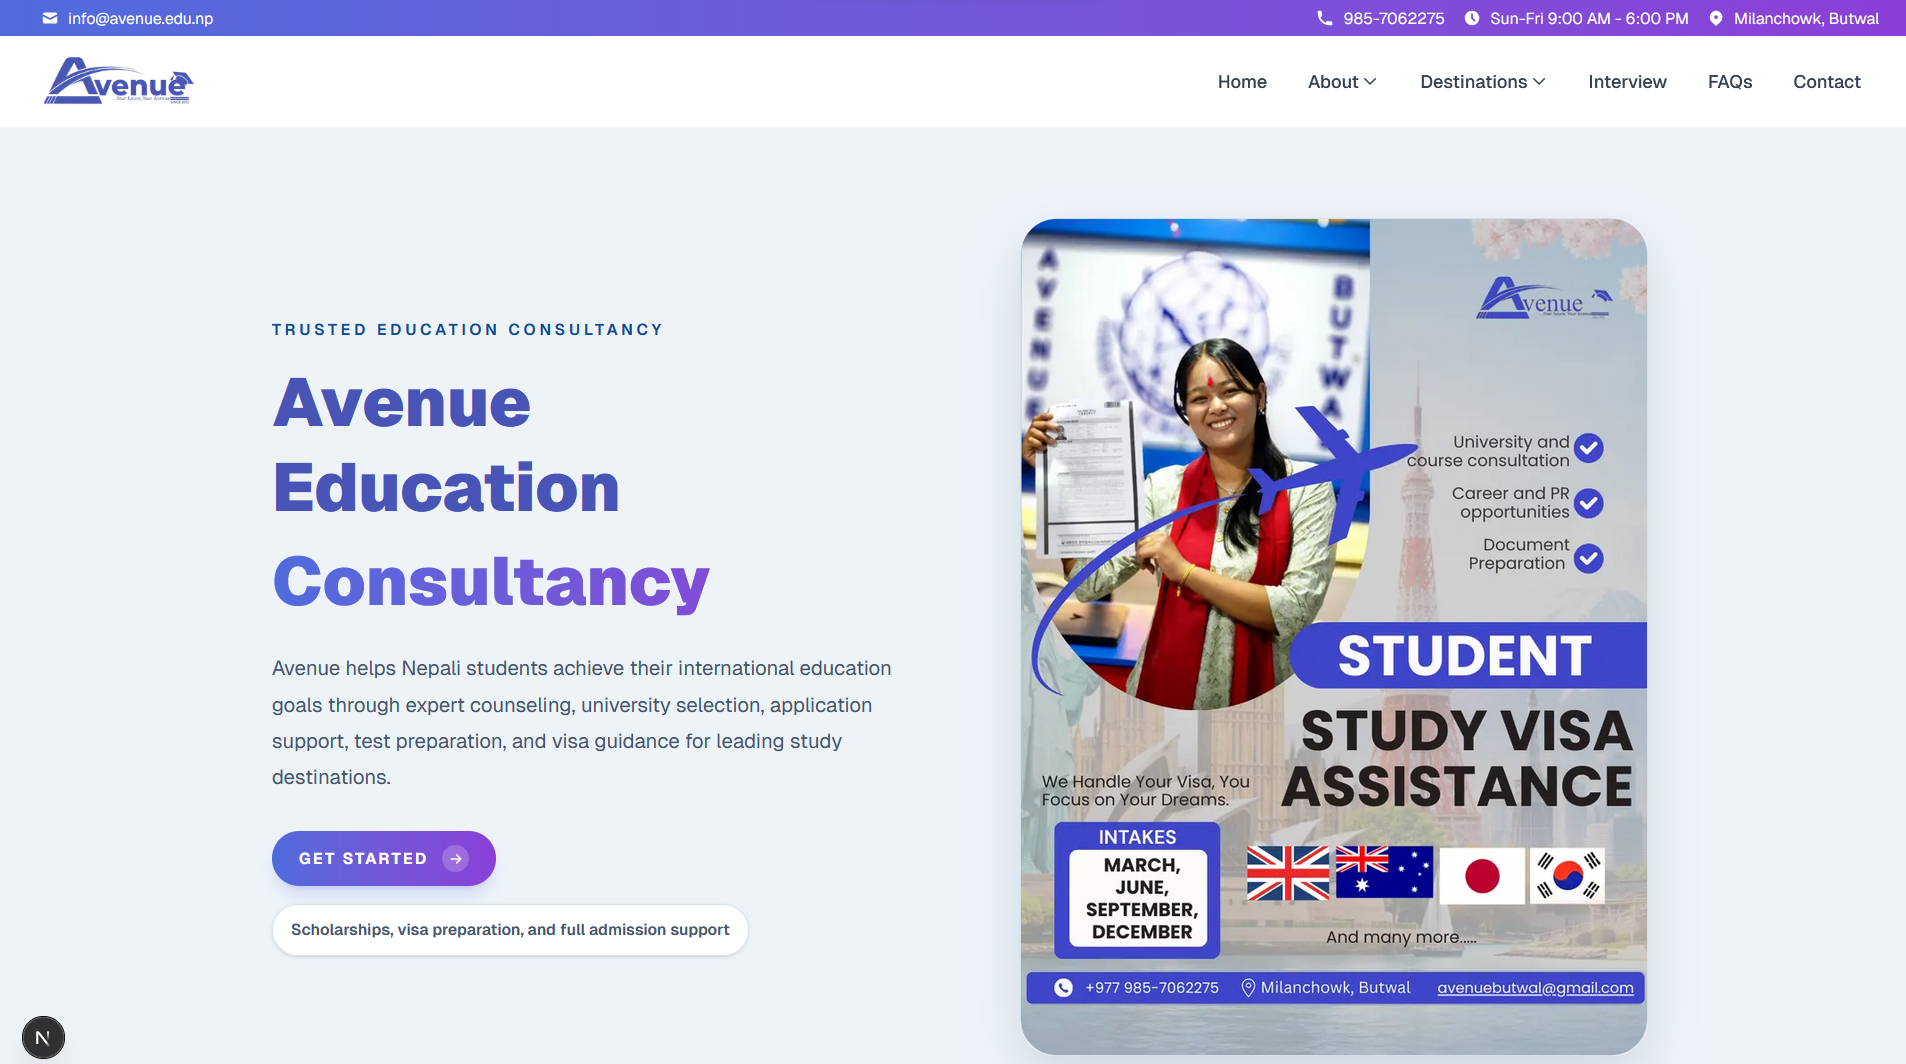
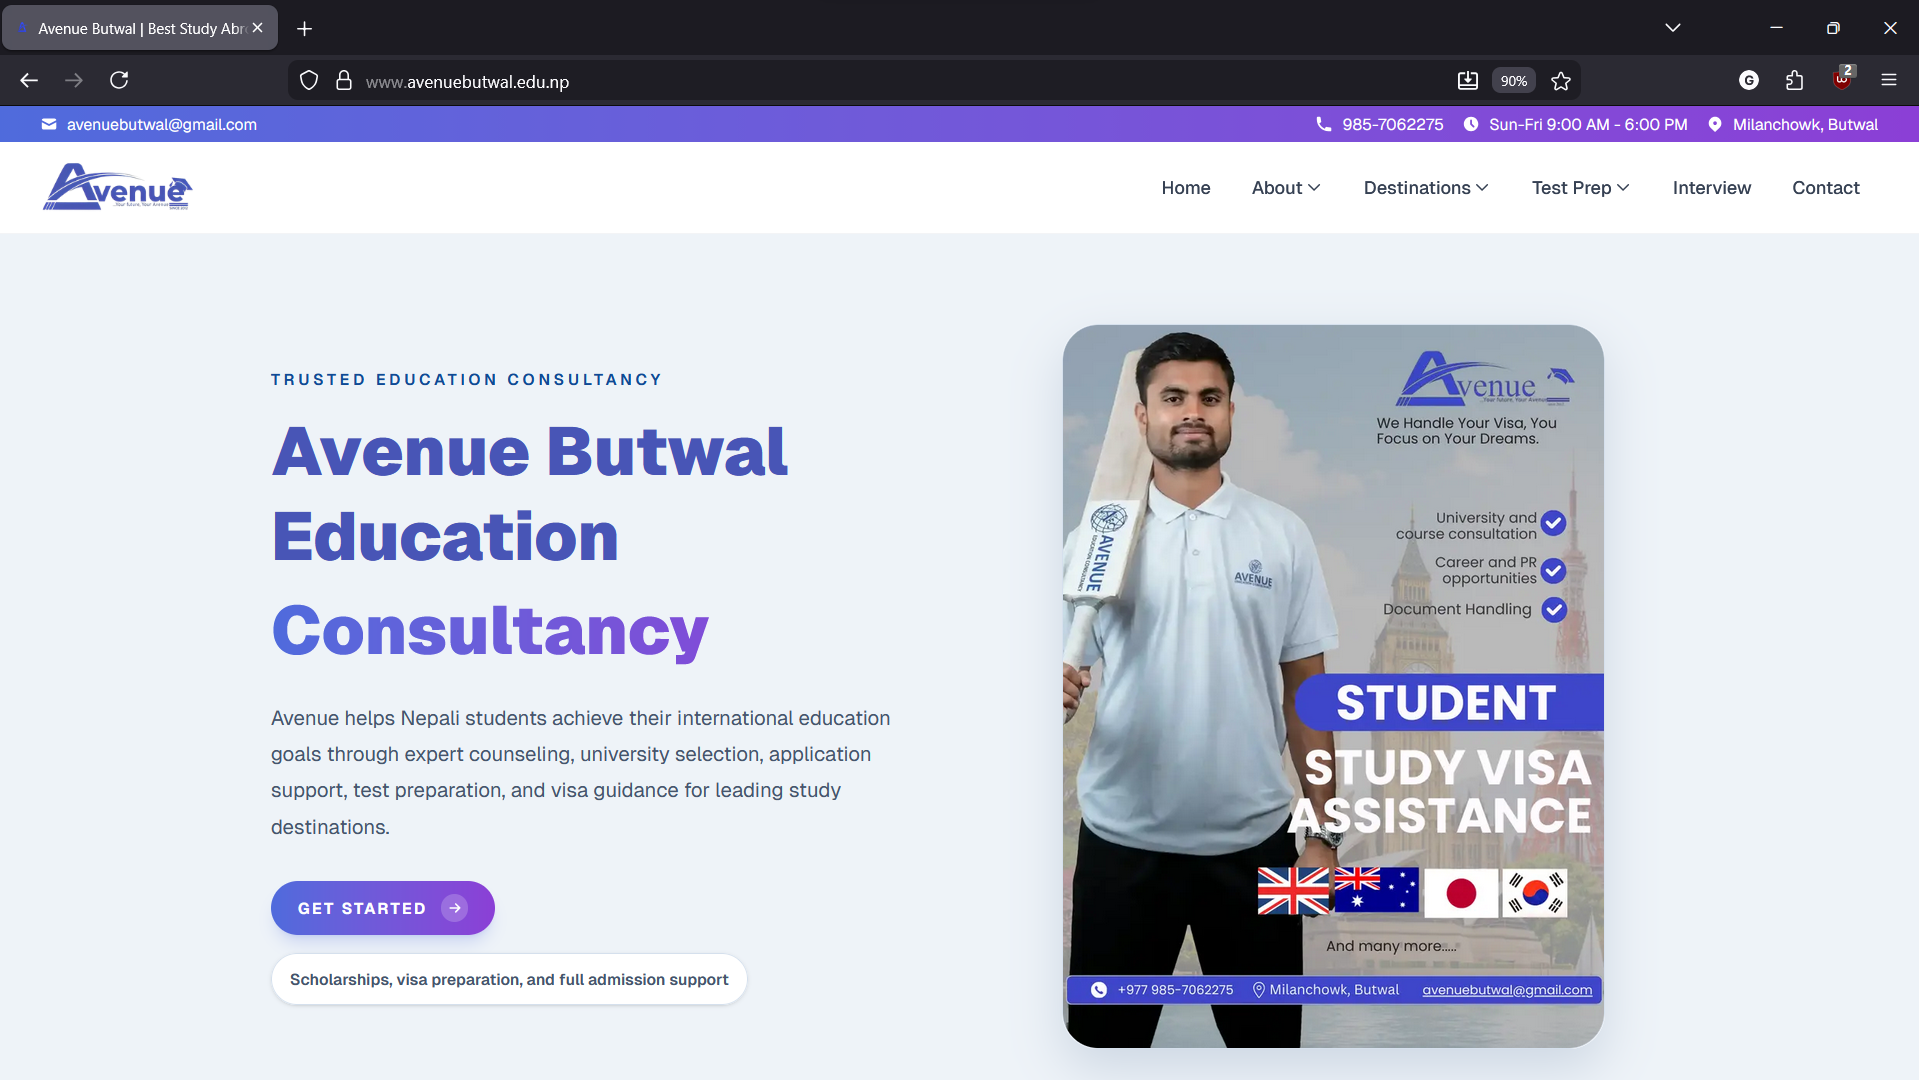
feat: Update Avenue project details with new description and link; replace image asset.

diff --git a/src/components/Projects.tsx b/src/components/Projects.tsx
@@ -35,9 +35,9 @@ const projects: Project[] = [
   {
     title: "Avenue Website",
     description:
-      "A modern marketing website for Avenue with responsive design and smooth animations, highlighting key services and brand identity.",
+      "A modern marketing website for Avenue Butwal Education Consultancy with responsive design and smooth animations, highlighting key services and brand identity.",
     tech: ["Next.js", "TypeScript", "Tailwind CSS"],
-    link: "https://avenue-website-three.vercel.app/",
+    link: "https://www.avenuebutwal.edu.np/",
     github: "#",
     image: "/assets/avenue.png",
     githubNote: "For client privacy, this repository is private.",
